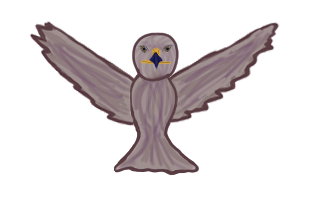
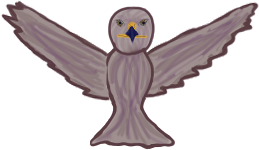
Nicer bounding with animation on hawk, added an additional frame

Changed region(s): [[0.0, 0.0, 1.0, 1.0], [0.6178, 0.3467, 0.6795, 0.3733]]

diff --git a/core/src/com/quokkabounce/game/sprites/Hawk.java b/core/src/com/quokkabounce/game/sprites/Hawk.java
@@ -1,9 +1,11 @@
 package com.quokkabounce.game.sprites;
 
 import com.badlogic.gdx.graphics.Texture;
+import com.badlogic.gdx.math.Polygon;
 import com.badlogic.gdx.math.Rectangle;
 import com.badlogic.gdx.math.Vector2;
 import com.badlogic.gdx.math.Vector3;
+import com.badlogic.gdx.utils.Array;
 
 /**
  * Created by Eric on 9/6/2017.
@@ -15,25 +17,37 @@ public class Hawk {
     private static final double ATTACKSPEED = 1.5;
     private static final int ATTACKDELAY = 10;
 
-    private int t, loopTime;
+    private int t, loopTime, firstWidth;
     private boolean alreadySpotted;
 
     private Rectangle hawkBounds;
+    private Polygon hawkPolygon;
+    private Polygon[] hawkPolygons;
     private Animation hawkAnimation;
     private Vector2 posHawk, velHawk;
 
     public Hawk(float x, float y){
         loopTime = 0;
         t = 0;
-        hawkAnimation = new Animation("hawkIdle", "hawk", 10, 0.5f);
+        hawkAnimation = new Animation("hawkIdle", "hawk", 11, 0.5f);
         alreadySpotted = false;
         posHawk = new Vector2(Math.round(RADIUS * Math.cos(SPEED * t)) + x, Math.round(RADIUS * Math.sin(SPEED * t)) + y);
         velHawk = new Vector2(Math.round(SPEED * RADIUS * -1 * Math.sin(SPEED * t)), Math.round(SPEED * RADIUS * Math.cos(SPEED * t)));
         hawkBounds = new Rectangle(posHawk.x, posHawk.y + hawkAnimation.getFrame().getHeight() / 3, hawkAnimation.getFrame().getWidth(), hawkAnimation.getFrame().getHeight() + hawkAnimation.getFrame().getHeight() / 3);
+        hawkPolygons = new Polygon[11];
+        for(int i = 0; i < 11; i++) {
+            hawkPolygons[i] = new Polygon(new float[]{0, 0, hawkAnimation.getFrames().get(i).getWidth(), 0, hawkAnimation.getFrames().get(i).getWidth(), hawkAnimation.getFrames().get(i).getHeight(), 0, hawkAnimation.getFrames().get(i).getHeight()});
+        }
+        hawkPolygon = hawkPolygons[0];
+        firstWidth = hawkAnimation.getFrame().getWidth();
     }
 
     public Rectangle getHawkBounds() {
         return hawkBounds;
+    }
+
+    public Polygon getHawkPolygon(){
+        return hawkPolygon;
     }
 
     public Vector2 getPosHawk() {
@@ -44,8 +58,8 @@ public class Hawk {
         return hawkAnimation.getFrame();
     }
 
-    public boolean collides(Rectangle player) {
-        return player.overlaps(hawkBounds);
+    public int getFirstWidth() {
+        return firstWidth;
     }
 
     public void dispose() {
@@ -79,6 +93,8 @@ public class Hawk {
             }
         }
         hawkBounds.set(posHawk.x, posHawk.y, hawkAnimation.getFrame().getWidth(), hawkAnimation.getFrame().getHeight());
+        hawkPolygon = hawkPolygons[hawkAnimation.getFrameNumber()];
+        hawkPolygon.setPosition(posHawk.x + (firstWidth - hawkAnimation.getFrame().getWidth()) / 2, posHawk.y);
     }
 
 }

diff --git a/core/src/com/quokkabounce/game/states/PlayState.java b/core/src/com/quokkabounce/game/states/PlayState.java
@@ -500,10 +500,10 @@ class PlayState extends State implements InputProcessor{ //This is the largest p
             }
             if(shouldMove) {
                 for (Hawk hawk : hawks) { //checks hawk collision, and if there is none sees if the hawk spots the quokka, causing it to dive, or otherwise moves it in circles more (hawk not shown in demo video)
-                    if (hawk.collides(quokka.getQuokkaBounds())) {
-                        respawning = true;
+                    if (isConcaveCollision(hawk.getHawkPolygon(), quokka.getQuokkaBounds())) {
+                        /*respawning = true;
                         gsm.set(new PlayState(gsm, world, level));
-                        break;
+                        break;*/
                     }
                     if (Math.sqrt(Math.pow(hawk.getHawkBounds().x + hawk.getHawkBounds().width / 2 - quokka.getQuokkaBounds().x - quokka.getQuokkaBounds().width / 2, 2) + Math.pow(hawk.getHawkBounds().y + hawk.getHawkBounds().height / 2 - quokka.getQuokkaBounds().y - quokka.getQuokkaBounds().height / 2, 2)) <= HAWKSIGHT) {
                         hawk.move(true, dt, quokka.getPosition());
@@ -2239,7 +2239,7 @@ class PlayState extends State implements InputProcessor{ //This is the largest p
             if(world == 5 && level == 8){
                 shapeRenderer.setColor(Color.YELLOW);
                 for(Hawk hawk : hawks) {
-                    shapeRenderer.rect(hawk.getHawkBounds().x, hawk.getHawkBounds().y, hawk.getHawkBounds().width, hawk.getHawkBounds().height);
+                    shapeRenderer.polygon(hawk.getHawkPolygon().getTransformedVertices());
                 }
             }
             shapeRenderer.end();
@@ -2329,7 +2329,7 @@ class PlayState extends State implements InputProcessor{ //This is the largest p
             sb.draw(tallDino.getTexture(), tallDino.getPosTallDino().x, tallDino.getPosTallDino().y);
         }
             for (Hawk hawk : hawks) {
-                sb.draw(hawk.getTexture(), hawk.getPosHawk().x, hawk.getPosHawk().y);
+                sb.draw(hawk.getTexture(), hawk.getPosHawk().x + (hawk.getFirstWidth() - hawk.getTexture().getWidth()) / 2, hawk.getPosHawk().y);
             }
             for (Meteor meteor : meteors) {
                 sb.draw(meteor.getTexture(), meteor.getPosMeteor().x, meteor.getPosMeteor().y);

diff --git a/core/src/com/quokkabounce/game/sprites/Animation.java b/core/src/com/quokkabounce/game/sprites/Animation.java
@@ -65,4 +65,8 @@ public class Animation {
     public Texture getFrame(){
         return frames.get(frame);
     }
+
+    public int getFrameNumber() {
+        return frame;
+    }
 }
